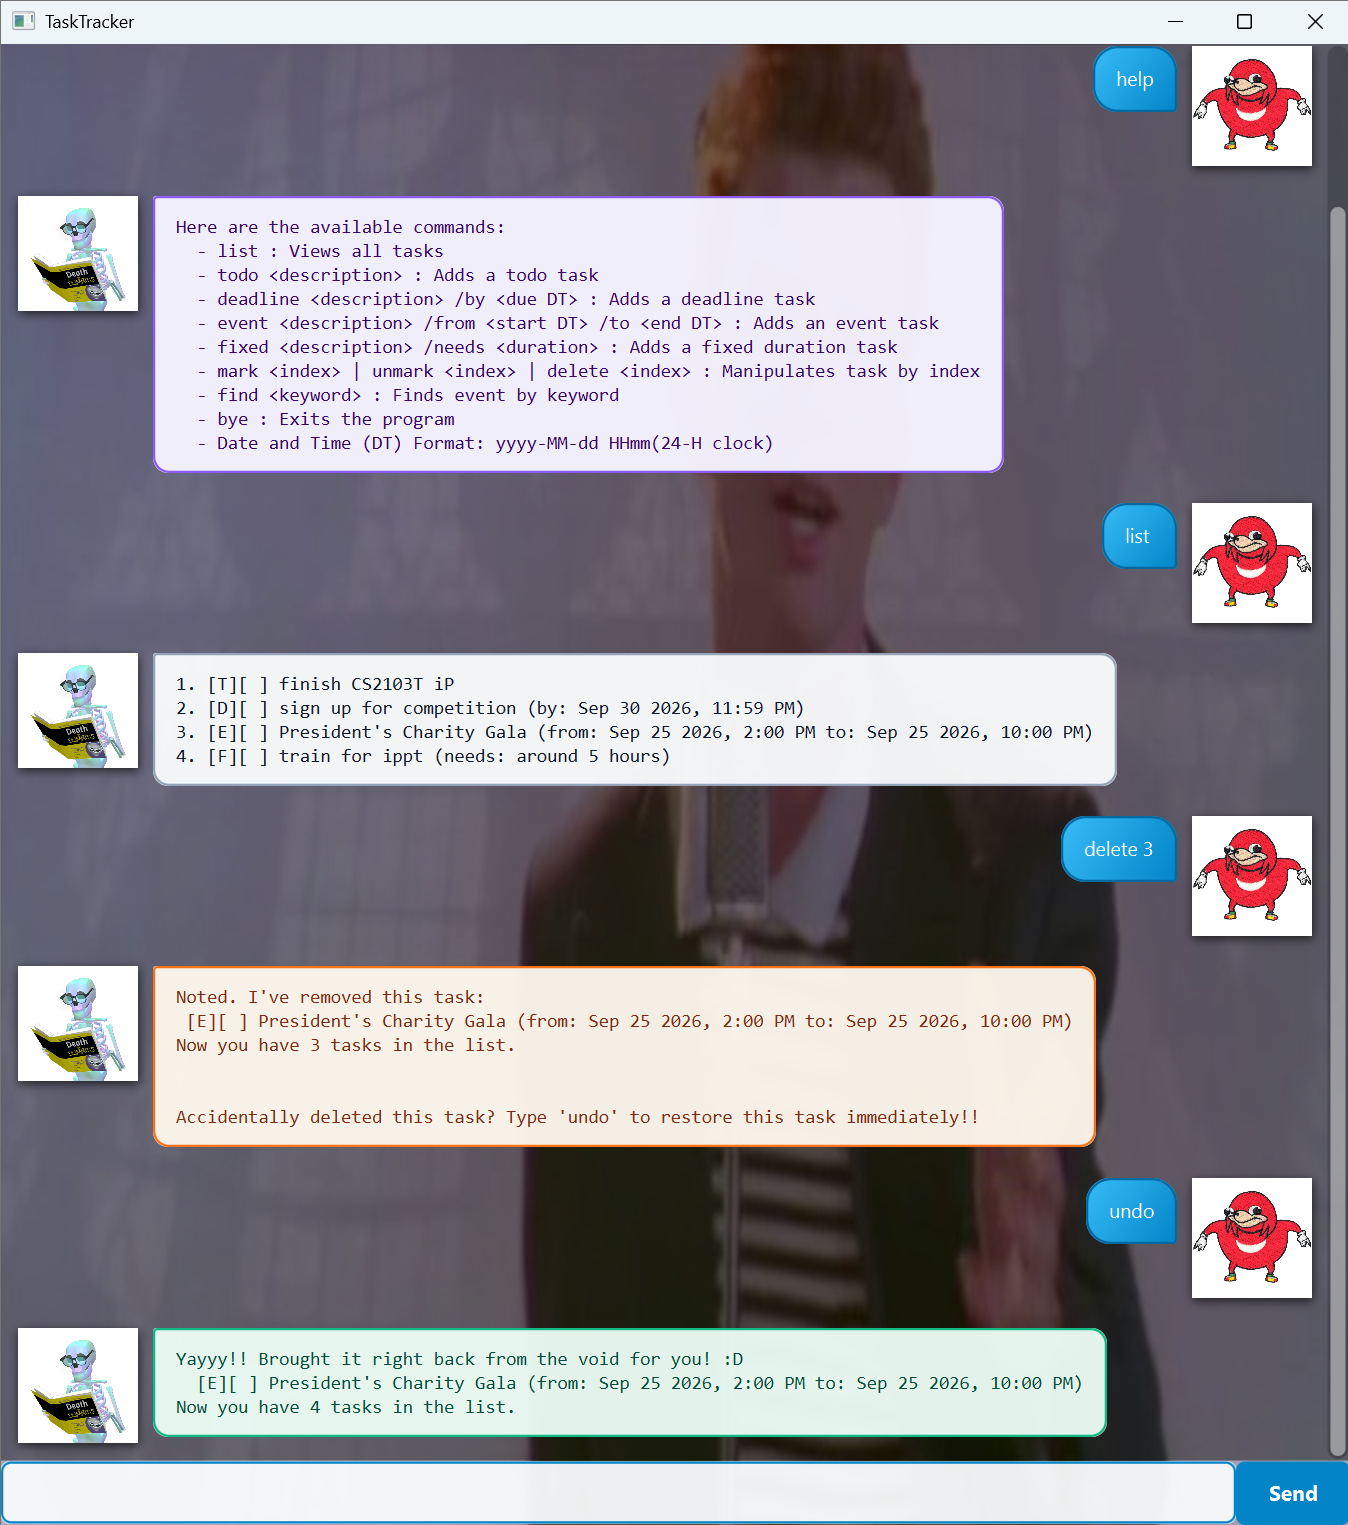
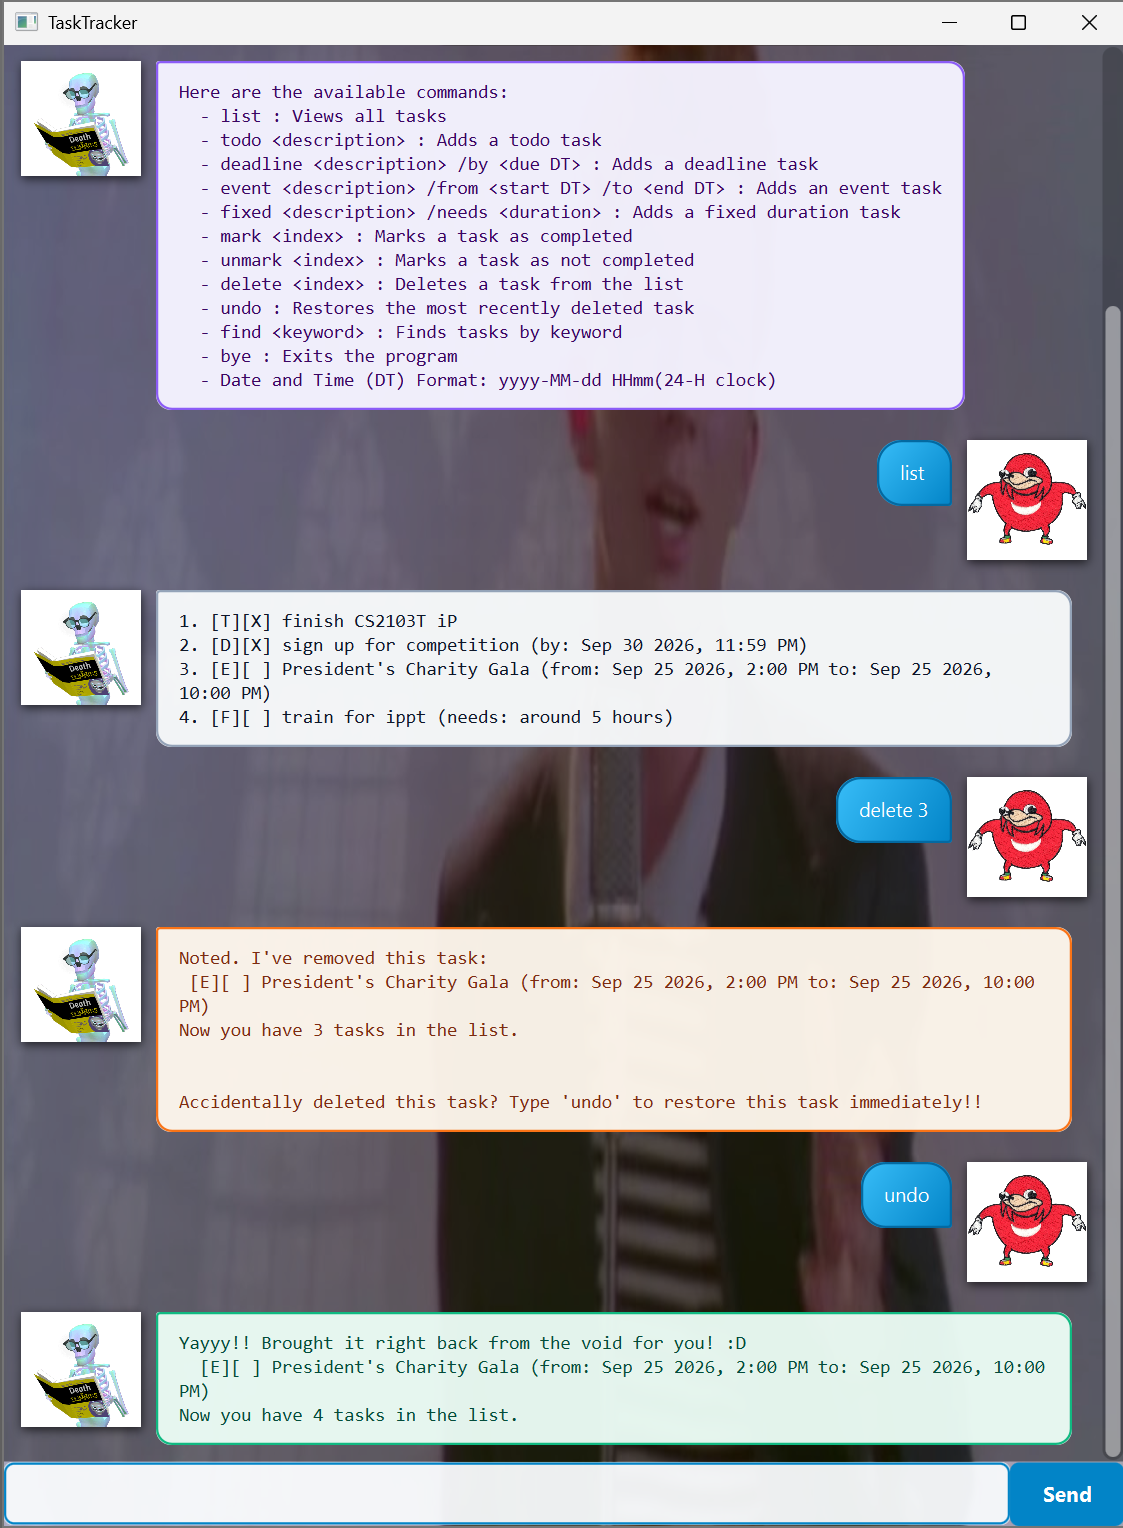
Add A-Release to TaskTracker
* Create and release TaskTracker MVP as a JAR file.
* Update help message formatting for better readability.
* Update README to reflect command and message changes.

diff --git a/src/main/java/tasktracker/ui/Message.java b/src/main/java/tasktracker/ui/Message.java
@@ -50,7 +50,10 @@ public class Message {
             + "  - " + SYNTAX_DEADLINE + " : Adds a deadline task\n"
             + "  - " + SYNTAX_EVENT + " : Adds an event task\n"
             + "  - " + SYNTAX_FIXED + " : Adds a fixed duration task\n"
-            + "  - " + SYNTAX_INDEX + " : Manipulates task by index\n"
+            + "  - mark <index> : Marks a task as completed\n"
+            + "  - unmark <index> : Marks a task as not completed\n"
+            + "  - delete <index> : Deletes a task from the list\n"
+            + "  - undo : Restores the most recently deleted task\n"
             + "  - " + SYNTAX_FIND + " : Finds tasks by keyword\n"
             + "  - bye : Exits the program\n"
             + "  - Date and Time (DT) Format: " + SYNTAX_DATE_TIME + "\n";

diff --git a/src/main/java/tasktracker/TaskTracker.java b/src/main/java/tasktracker/TaskTracker.java
@@ -129,7 +129,10 @@ public class TaskTracker {
     }
 
     /**
-     * Invalidates any cached deletion if an intervening non-delete/non-undo action is run.
+     * Invalidates the cached deletion history when an intervening action is executed.
+     * <p>
+     * Clears any restorable task if the executed command is neither {@code UNDO} nor {@code DELETE}.
+     * Note that subsequent {@code DELETE} commands overwrite the previously cached deletion.
      *
      * @param command The command type currently executing.
      */

diff --git a/docs/README.md b/docs/README.md
@@ -40,7 +40,7 @@ Type your command into the bottom text field and press **Enter**.
 * `unmark` : Marks a task as incomplete
 * `find` : Finds tasks matching a keyword
 * `delete` : Deletes a task by its index number
-* `undo` : Restores or reverts the most recent modifying action
+* `undo` : Restores recently deleted task
 * `help` : Shows all available commands
 * `bye` : Exits the program
 
@@ -86,7 +86,10 @@ Here are the available commands:
  - deadline <description> /by <due DT> : Adds a deadline task
  - event <description> /from <start DT> /to <end DT> : Adds an event task
  - fixed <description> /needs <duration> : Adds a fixed duration task
- - mark <index> | unmark <index> | delete <index> : Manipulates task by index
+ - mark <index> : Marks a task as completed
+ - unmark <index> : Marks a task as not completed
+ - delete <index> : Deletes a task from the list
+ - undo : Restores the most recently deleted task
  - find <keyword> : Finds tasks by keyword
  - bye : Exits the program
  - Date and Time (DT) Format: yyyy-MM-dd HHmm(24-H clock)
@@ -294,6 +297,9 @@ Yayyy!! Brought it right back from the void for you! :D
 Now you have 4 tasks in the list.
 ```
 
+> **Note:** The undo buffer stores only the single most recently deleted task. Executing any subsequent valid command
+> (e.g., `todo`, `mark`, `delete`, `list`) clears the buffer, making that deletion permanent.
+
 ---
 
 ### 11. Finding Tasks
@@ -332,7 +338,7 @@ bye
 Sample output:
 
 ```text
-Bye. Hope to see you again soon!
+Baiiiiiii!!! Cya soon!
 ```
 
 ---
